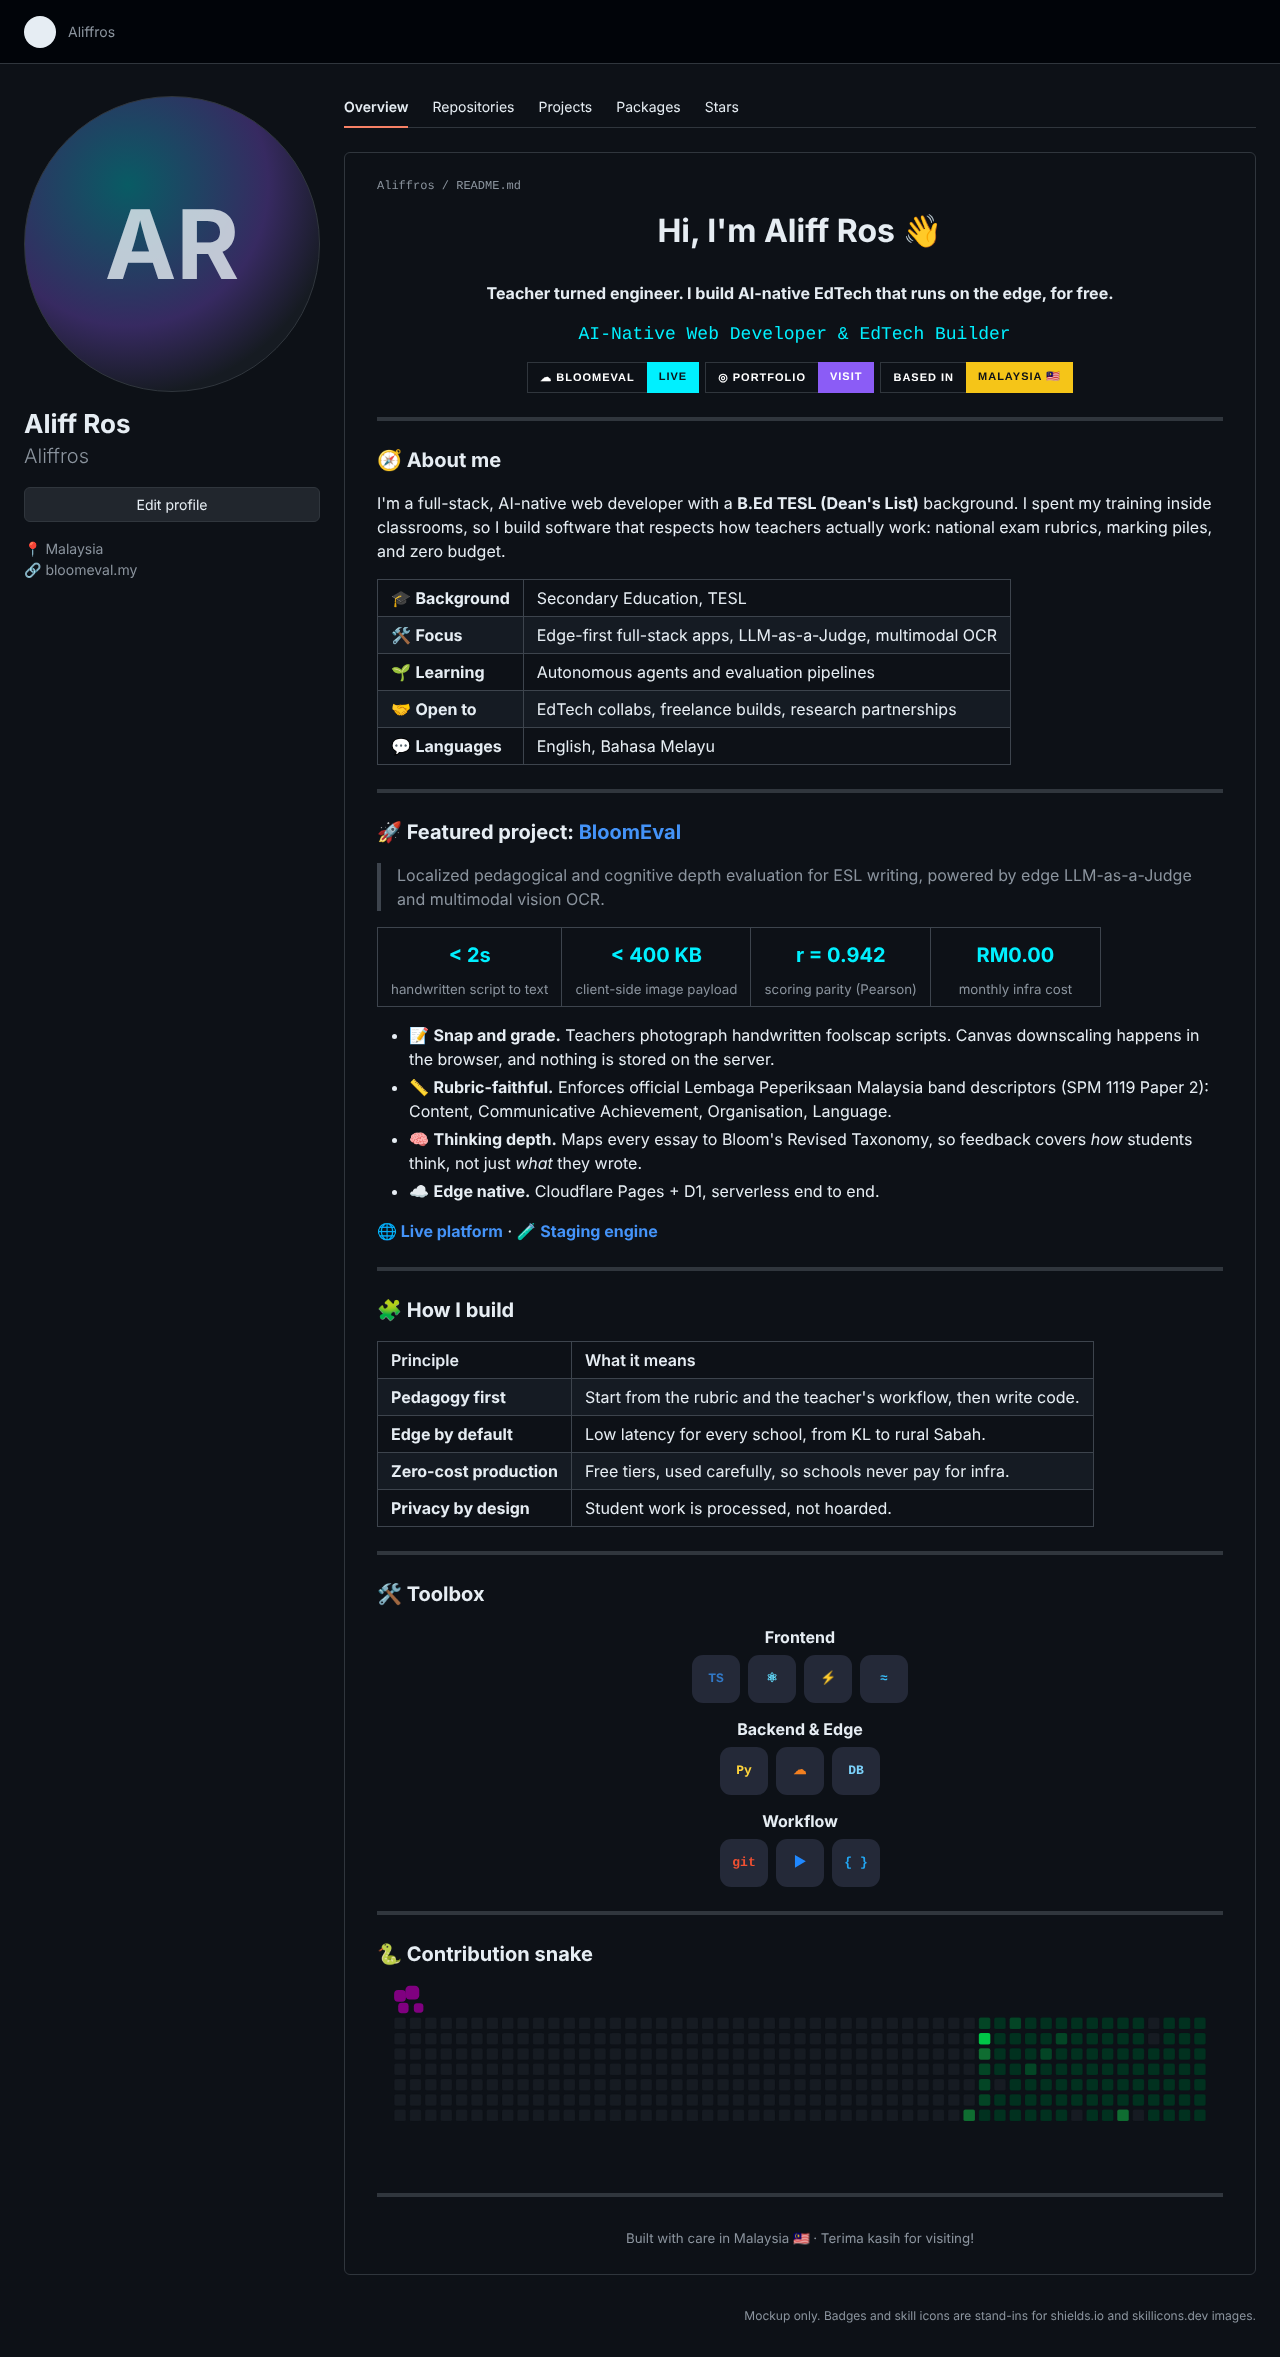
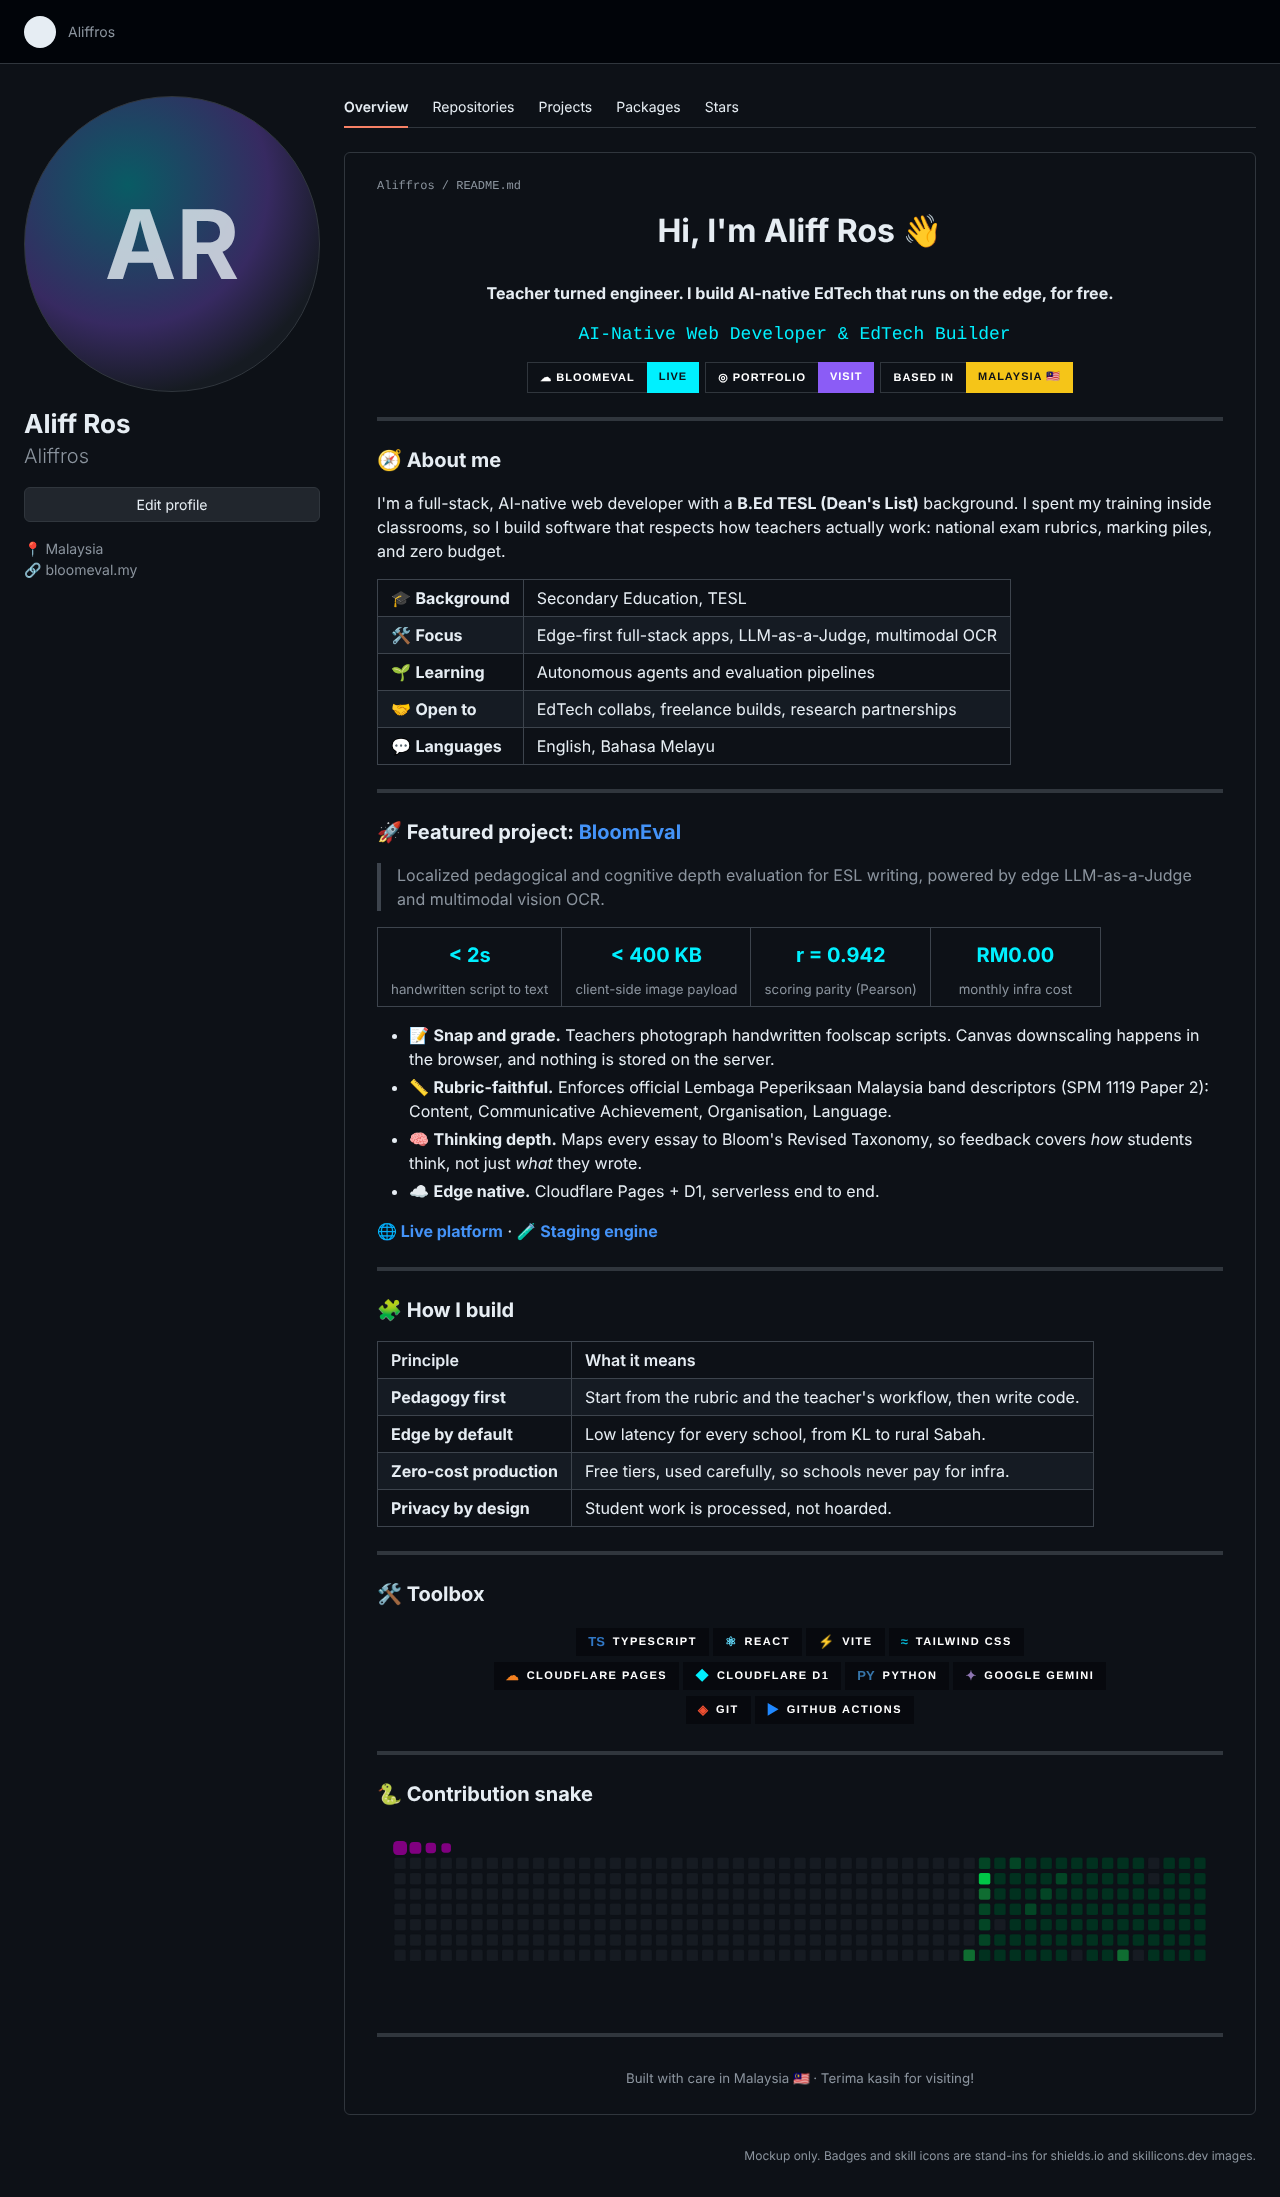
docs(profile): use curated Shields.io tech badges in proposed README
Replaces the skill icon strip with ten for-the-badge tech badges in the
profile's dark style, and updates the mockup to match.

Claude-Session: https://claude.ai/code/session_01H8GMfphtcbKff2DTSFeshn

diff --git a/proposal/mockup.html b/proposal/mockup.html
@@ -44,6 +44,10 @@
   .stats sub { color:var(--muted); }
   .icons { display:flex; justify-content:center; gap:8px; margin:6px 0 14px; }
   .icon { width:48px; height:48px; border-radius:11px; background:#242938; display:flex; align-items:center; justify-content:center; font:700 13px/1 ui-monospace,monospace; }
+  .tech { line-height:0; }
+  .tech > div { display:inline-flex; align-items:center; gap:8px; height:28px; margin:3px 2px; padding:0 12px; background:#07090e; color:#fff; font:700 11px/1 Verdana,sans-serif; letter-spacing:1.5px; text-transform:uppercase; }
+  .tech span { color:var(--c); font-size:13px; letter-spacing:0; }
+  .tech br { display:block; content:""; margin:0; }
   .snake img { width:100%; display:block; }
   .note { max-width:1280px; margin:0 auto 32px; padding:0 24px; color:var(--muted); font-size:12px; text-align:right; }
 </style>
@@ -118,19 +122,12 @@
 
         <hr/>
         <h3>🛠 Toolbox</h3>
-        <div class="center">
-          <b>Frontend</b>
-          <div class="icons">
-            <div class="icon" style="color:#3178c6">TS</div><div class="icon" style="color:#61dafb">⚛</div><div class="icon" style="color:#bd34fe">⚡</div><div class="icon" style="color:#38bdf8">≈</div>
-          </div>
-          <b>Backend &amp; Edge</b>
-          <div class="icons">
-            <div class="icon" style="color:#ffd43b">Py</div><div class="icon" style="color:#f38020">☁</div><div class="icon" style="color:#7dd3fc">DB</div>
-          </div>
-          <b>Workflow</b>
-          <div class="icons">
-            <div class="icon" style="color:#f05032">git</div><div class="icon" style="color:#2088ff">▶</div><div class="icon" style="color:#22a6f2">{ }</div>
-          </div>
+        <div class="center tech">
+          <div><span style="--c:#3178C6">TS</span>TypeScript</div><div><span style="--c:#61DAFB">⚛</span>React</div><div><span style="--c:#646CFF">⚡</span>Vite</div><div><span style="--c:#06B6D4">≈</span>Tailwind CSS</div>
+          <br/>
+          <div><span style="--c:#F38020">☁</span>Cloudflare Pages</div><div><span style="--c:#00F0FF">◆</span>Cloudflare D1</div><div><span style="--c:#3776AB">Py</span>Python</div><div><span style="--c:#8E75B2">✦</span>Google Gemini</div>
+          <br/>
+          <div><span style="--c:#F05032">◈</span>Git</div><div><span style="--c:#2088FF">▶</span>GitHub Actions</div>
         </div>
 
         <hr/>

diff --git a/proposal/README.proposed.md b/proposal/README.proposed.md
@@ -65,14 +65,18 @@ I'm a full-stack, AI-native web developer with a **B.Ed TESL (Dean's List)** bac
 
 <div align="center">
 
-**Frontend**<br/>
-<img src="https://skillicons.dev/icons?i=ts,react,vite,tailwind&theme=dark" alt="Frontend" />
-
-**Backend & Edge**<br/>
-<img src="https://skillicons.dev/icons?i=python,cloudflare,sqlite&theme=dark" alt="Backend and edge" />
-
-**Workflow**<br/>
-<img src="https://skillicons.dev/icons?i=git,githubactions,vscode&theme=dark" alt="Workflow" />
+<img src="https://img.shields.io/badge/TypeScript-07090e?style=for-the-badge&logo=typescript&logoColor=3178C6" alt="TypeScript" />
+<img src="https://img.shields.io/badge/React-07090e?style=for-the-badge&logo=react&logoColor=61DAFB" alt="React" />
+<img src="https://img.shields.io/badge/Vite-07090e?style=for-the-badge&logo=vite&logoColor=646CFF" alt="Vite" />
+<img src="https://img.shields.io/badge/Tailwind_CSS-07090e?style=for-the-badge&logo=tailwindcss&logoColor=06B6D4" alt="Tailwind CSS" />
+<br/>
+<img src="https://img.shields.io/badge/Cloudflare_Pages-07090e?style=for-the-badge&logo=cloudflarepages&logoColor=F38020" alt="Cloudflare Pages" />
+<img src="https://img.shields.io/badge/Cloudflare_D1-07090e?style=for-the-badge&logo=sqlite&logoColor=00F0FF" alt="Cloudflare D1" />
+<img src="https://img.shields.io/badge/Python-07090e?style=for-the-badge&logo=python&logoColor=3776AB" alt="Python" />
+<img src="https://img.shields.io/badge/Google_Gemini-07090e?style=for-the-badge&logo=googlegemini&logoColor=8E75B2" alt="Google Gemini" />
+<br/>
+<img src="https://img.shields.io/badge/Git-07090e?style=for-the-badge&logo=git&logoColor=F05032" alt="Git" />
+<img src="https://img.shields.io/badge/GitHub_Actions-07090e?style=for-the-badge&logo=githubactions&logoColor=2088FF" alt="GitHub Actions" />
 
 </div>
 
